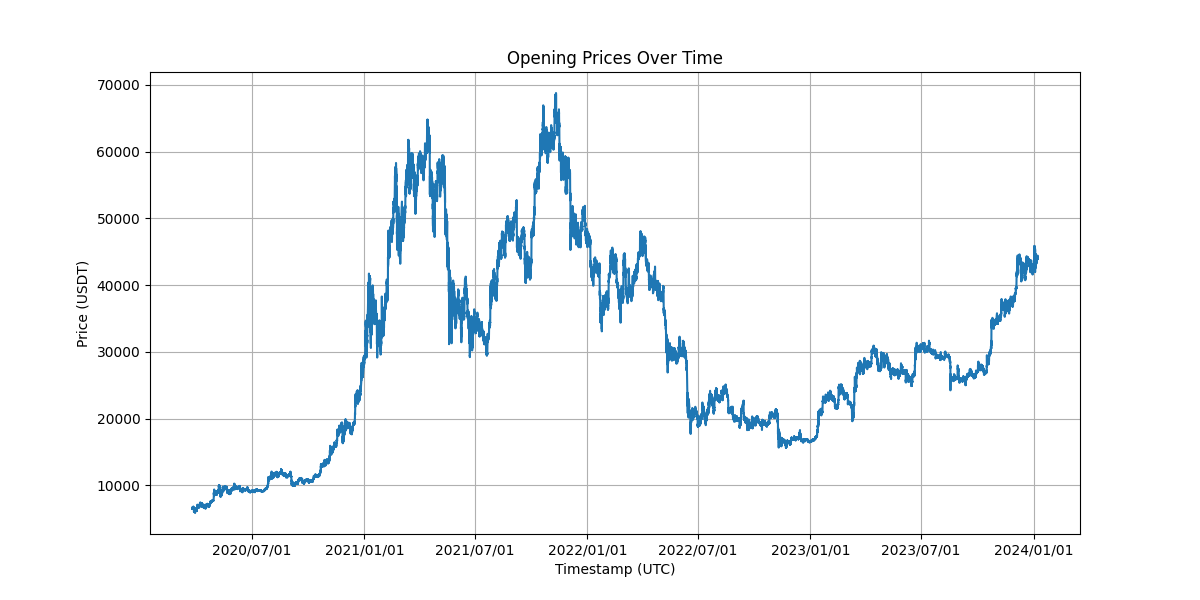
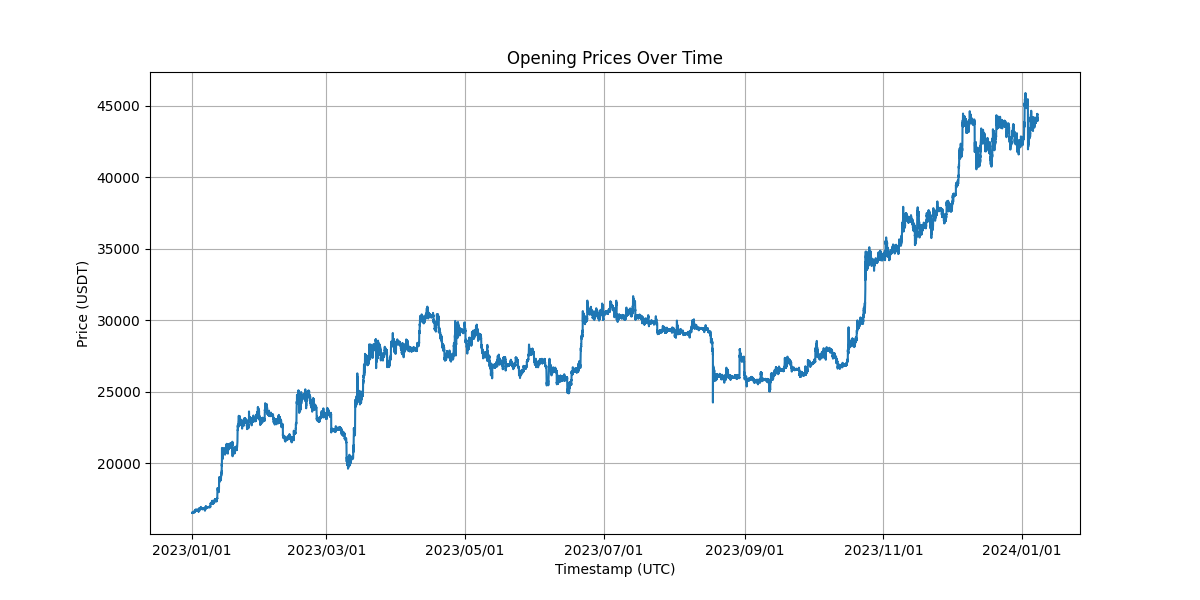
visualization

diff --git a/crypto/get_crypto_data.py b/crypto/get_crypto_data.py
@@ -49,45 +49,48 @@ def format_data(response):
 
 
 def get_data(symbol, interval, start, limit, write_data=True):
-    file_path = f'data/crypto/{symbol}.csv'
+    try:
+        file_path = f'data/crypto/{symbol}.csv'
 
-    df = pd.DataFrame() if not os.path.exists(file_path) else pd.read_csv(file_path, index_col=0, parse_dates=True)
-    
-    while True:
-        # https://bybit-exchange.github.io/docs/v5/market/kline
-        response = session.get_kline(
-            category='linear', 
-            symbol=symbol, 
-            start=start,
-            interval=interval,
-            limit=limit
-        )
+        df = pd.DataFrame() if not os.path.exists(file_path) else pd.read_csv(file_path, index_col=0, parse_dates=True)
         
-        latest = format_data(response)
+        while True:
+            # https://bybit-exchange.github.io/docs/v5/market/kline
+            response = session.get_kline(
+                category='linear', 
+                symbol=symbol, 
+                start=start,
+                interval=interval,
+                limit=limit
+            )
+            
+            latest = format_data(response)
+            
+            if not isinstance(latest, pd.DataFrame):
+                break
+            
+            start = get_last_timestamp(latest)
+            
+            time.sleep(0.5)
+            
+            df = pd.concat([df, latest])
+            
+            print(f'Collecting data from: {dt.datetime.fromtimestamp(start / 1000)}')
+            
+            if len(latest) == 1: break
         
-        if not isinstance(latest, pd.DataFrame):
-            break
-        
-        start = get_last_timestamp(latest)
-        
-        time.sleep(0.5)
-        
-        df = pd.concat([df, latest])
-        
-        print(f'Collecting data from: {dt.datetime.fromtimestamp(start / 1000)}')
-        
-        if len(latest) == 1: break
-    
-    df.drop_duplicates(subset=['timestamp'], keep='last', inplace=True)
+        df.drop_duplicates(subset=['timestamp'], keep='last', inplace=True)
 
-    if write_data:
-        df.to_csv(file_path)
-        print(f'File {file_path} has been successfully saved.')
+        if write_data:
+            df.to_csv(file_path)
+            print(f'File {file_path} has been successfully saved.')
 
-    return df
+        return df
+    except Exception as e:
+        print(e)
 
 
-symbol = 'ETHUSDT'
+symbol = 'DOGEUSDT'
 interval = '15' # In minutes
 limit = 1000
 start = int(dt.datetime(2020, 1, 1).timestamp() * 1000)

diff --git a/visualization.py b/visualization.py
@@ -2,34 +2,44 @@ import os
 import matplotlib.pyplot as plt
 import matplotlib.dates as mdates
 
-from datetime import datetime
+import datetime as dt
 
 import pandas as pd
 import numpy as np
 
 
-def visualize_and_save_crypto_data():
+def visualize_single_crypto_asset(asset_name, from_date, save_figure=False):
+    file_path = f'data/crypto/{asset_name}'
+    df = pd.read_csv(file_path)
+
+    year, month, day = [int(i) for i in from_date.split('-')]
+    start = int(dt.datetime(year, month, day).timestamp() * 1000)
+    df = df[df['timestamp'] > start]
+    
+    y = df['open']
+    x = [dt.datetime.fromtimestamp(timestamp) for timestamp in (df['timestamp'] / 1000)]
+    
+    plt.figure(figsize=(12, 6))
+    plt.plot(x, y)
+
+    plt.gca().xaxis.set_major_formatter(mdates.DateFormatter('%Y/%m/%d'))
+    plt.title('Opening Prices Over Time')
+    plt.xlabel('Timestamp (UTC)')
+    plt.ylabel('Price (USDT)')
+    plt.grid(True)
+
+    if save_figure:
+        fig_name = f'{asset_name.split(".")[0]}.png'
+        plt.savefig(f'visualization/crypto/{fig_name}')
+
+
+def visualize_all_crypto_data(from_date):
     path = 'data/crypto'
     dir_list = os.listdir(path)
 
     for file_name in dir_list:
-        file_path = f'data/crypto/{file_name}'
-        df = pd.read_csv(file_path)
+        visualize_single_crypto_asset(file_name, from_date, True)
 
-        y = df['open']
-        x = [datetime.fromtimestamp(timestamp) for timestamp in (df['timestamp'] / 1000)]
-        
-        plt.figure(figsize=(12, 6))
-        plt.plot(x, y)
 
-        plt.gca().xaxis.set_major_formatter(mdates.DateFormatter('%Y/%m/%d'))
-        plt.title('Opening Prices Over Time')
-        plt.xlabel('Timestamp (UTC)')
-        plt.ylabel('Price (USDT)')
-        plt.grid(True)
-
-        fig_name = f'{file_name.split(".")[0]}.png'
-        plt.savefig(f'visualization/crypto/{fig_name}')
-    
-
-visualize_and_save_crypto_data()
+visualize_all_crypto_data('2022-01-01')
+# visualize_single_crypto_asset('BTCUSDT', '2024-01-01')
